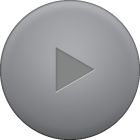
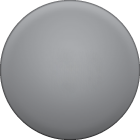
运动界面修改

Changed region(s): [[0.4, 0.3429, 0.6857, 0.6571]]

diff --git a/LikeMoves/LikeMoves/SportViewController.m b/LikeMoves/LikeMoves/SportViewController.m
@@ -46,17 +46,9 @@ static int sportSec;
     
     
     
-    _fireBtn = [[DKCircleButton alloc] initWithFrame:CGRectMake(self.sportCircle.bounds.size.width/2-mFireBtnH/2, self.sportCircle.bounds.size.height/2-mFireBtnH/2, mFireBtnH, mFireBtnH)];
-    [_fireBtn setImage:[UIImage imageNamed:@"test4.png"] forState:UIControlStateNormal];
-        [_fireBtn setImage:[UIImage imageNamed:@"test4.png"] forState:UIControlStateHighlighted];
-        [_fireBtn setImage:[UIImage imageNamed:@"test4.png"] forState:UIControlStateSelected];
-        [_fireBtn setImage:[UIImage imageNamed:@"test4.png"] forState:UIControlStateDisabled];
-    //    _fireBtn.center = CGPointMake(160, 200);
-    _fireBtn.titleLabel.font = [UIFont systemFontOfSize:22];
-    [_fireBtn setTitleColor:[UIColor emerlandColor] forState:UIControlStateNormal];
-    [_fireBtn setTitleColor:[UIColor emerlandColor]  forState:UIControlStateSelected];
-    [_fireBtn setTitleColor:[UIColor emerlandColor] forState:UIControlStateHighlighted];
-    [self setFireBtnTitle:@"0m 0s"];
+    _fireBtn = [[ZenPlayerButton alloc]initWithFrame:CGRectMake(self.sportCircle.bounds.size.width/2-mFireBtnH/2, self.sportCircle.bounds.size.height/2-mFireBtnH/2, mFireBtnH, mFireBtnH)];
+            [_fireBtn addTarget:self action:@selector(sportCircleClear) forControlEvents:UIControlEventTouchUpInside];
+//    [self setFireBtnTitle:@"0m 0s"];
     
     [_wdSport addSubview:_fireBtn];
     [_wdSport addSubview:_coinImg];
@@ -71,7 +63,7 @@ static int sportSec;
     _bagView = [[UIImageView alloc] initWithImage:[UIImage imageNamed:@"icon_hongbao_bags"]];
     _bagView.center = CGPointMake(CGRectGetMidX(self.view.frame) + 5, CGRectGetMidY(self.view.frame)+5 );
     
-    [_fireBtn addTarget:self action:@selector(sportCircleClear) forControlEvents:UIControlEventTouchUpInside];
+
     /**
      *  使用自定义创建控件的方式使控件自适应，autolayout开启，在storyboard中建立的控件，必须已经显示才能在viewDidAppear中进行操作
      */
@@ -138,7 +130,7 @@ static int sportSec;
     sportSec=sportTime;
     int hour=sportTime/60;
     int second=sportTime%60;
-    [self setFireBtnTitle:[NSString stringWithFormat:@"%dm %ds",hour,second]];
+//    [self setFireBtnTitle:[NSString stringWithFormat:@"%dm %ds",hour,second]];
 }
 #pragma mark - custom-method
 -(void) refreshCoinsAndMonthDays{
@@ -153,15 +145,12 @@ static int sportSec;
     User* user=[NSKeyedUnarchiver unarchiveObjectWithData:[[NSUserDefaults standardUserDefaults] objectForKey:mUserInfo]];
     _coinsCount.text=user.coins;
 }
--(void) setFireBtnTitle:(NSString*) title{
-    [_fireBtn setTitle:NSLocalizedString(title, nil) forState:UIControlStateNormal];
-    [_fireBtn setTitle:NSLocalizedString(title, nil) forState:UIControlStateSelected];
-    [_fireBtn setTitle:NSLocalizedString(title, nil) forState:UIControlStateHighlighted];
-}
 /**
  *  当能量条清空时，调用此方法。
  */
 -(void) sportCircleClear{
+    self.fireBtn.progress = 0.4f;
+
     if(sportCircleNumber>5){
         //添加运动记录
         [_bl addMoveRecord:sportSec withSteps:stepNum];
@@ -180,8 +169,8 @@ static int sportSec;
     }else{
         //        [_userBL addCoins:100];
         
-        UIAlertView* alert=[[UIAlertView alloc] initWithTitle:nil message:@"能量条超过一半才能释放" delegate:nil cancelButtonTitle:@"确定" otherButtonTitles: nil];
-        [alert show];
+//        UIAlertView* alert=[[UIAlertView alloc] initWithTitle:nil message:@"能量条超过一半才能释放" delegate:nil cancelButtonTitle:@"确定" otherButtonTitles: nil];
+//        [alert show];
         
         
     }

diff --git a/LikeMoves/LikeMoves/ZenPlayerButton/debug.h b/LikeMoves/LikeMoves/ZenPlayerButton/debug.h
@@ -1,0 +1,35 @@
+//
+//  debug.h
+//  walknote
+//
+//  Created by noradaiko on 7/19/11.
+//  Copyright 2012 noradaiko. All rights reserved.
+//
+
+#import <Foundation/Foundation.h>
+
+#ifndef walknote_debug_h
+#define walknote_debug_h
+
+
+#define  __FILENAME__  [[NSString stringWithCString:__FILE__ encoding:NSStringEncodingConversionAllowLossy] lastPathComponent]
+
+#ifdef DEBUG
+#  define LOG(...) NSLog(@"%@:%d@%@/%@ %@", __FILENAME__, __LINE__, NSStringFromClass([self class]), NSStringFromSelector(_cmd), [NSString stringWithFormat:__VA_ARGS__])
+#  define LOG_ERR(...) NSLog(@"%@:%d@%@/%@ [ERROR] %@", __FILENAME__, __LINE__, NSStringFromClass([self class]), NSStringFromSelector(_cmd), [NSString stringWithFormat:__VA_ARGS__])
+#  define LOG_CURRENT_METHOD NSLog(@"%@:%d@%@/%@", __FILENAME__, __LINE__, NSStringFromClass([self class]), NSStringFromSelector(_cmd))
+#else
+#  define LOG(...) 
+#  define LOG_ERR(...) 
+#  define LOG_CURRENT_METHOD {}
+#endif
+
+
+#endif
+
+
+#define MAMAMA LOG
+
+
+void uncaughtExceptionHandler(NSException *exception);
+

diff --git a/LikeMoves/LikeMoves/ZenPlayerButton/ZenPlayerButton.m b/LikeMoves/LikeMoves/ZenPlayerButton/ZenPlayerButton.m
@@ -48,7 +48,7 @@
 
 @synthesize layerBackground=_layerBackground;
 @synthesize layerContainer=_layerContainer;
-@synthesize state=_state;
+@synthesize stateBtn=_state;
 @synthesize progress=_progress;
 
 - (id)initWithFrame:(CGRect)frame
@@ -138,11 +138,14 @@
             if(pos.x>=0 &&
                pos.y>=0 &&
                pos.x<self.bounds.size.width &&
-               pos.y<self.bounds.size.height)
+               pos.y<self.bounds.size.height){
                 [self tapDone];
+                [self setEnabled:false];
+            }
             else
                 [self tapCancelled];
         }
+    [self performSelector:@selector(touch) withObject:nil afterDelay:1.5];
     [super touchesEnded:touches withEvent:event];
 }
 
@@ -152,7 +155,11 @@
 }
 
 #pragma mark customized tap event
-
+-(void)touch{
+    [self setEnabled:YES];
+    [self tapBegan];
+    [self tapDone];
+}
 /**
  * Invoked when the tap began in the view
  */

diff --git a/LikeMoves/LikeMoves/SportViewController.h b/LikeMoves/LikeMoves/SportViewController.h
@@ -12,7 +12,7 @@
 #import "LMSportBL.h"
 #import "DKCircleButton.h"
 #import "LMUserActBL.h"
-
+#import "ZenPlayerButton.h"
 @interface SportViewController : UIViewController<LMSportBLDelegate>{
     UIButton        *_getBtn;
     UIImageView     *_bagView;      //福袋图层
@@ -40,7 +40,7 @@
 
 
 @property (weak, nonatomic) IBOutlet UILabel *coinsCount;
-@property (nonatomic) DKCircleButton *fireBtn;
+@property (nonatomic) ZenPlayerButton *fireBtn;
 @property (weak, nonatomic) IBOutlet UIImageView *coinImg;
 
 - (IBAction)share:(id)sender;

diff --git a/LikeMoves/LikeMoves/ZenPlayerButton/debug.m b/LikeMoves/LikeMoves/ZenPlayerButton/debug.m
@@ -1,0 +1,16 @@
+//
+//  debug.m
+//  walknote
+//
+//  Created by noradaiko on 2/9/12.
+//  Copyright (c) 2012 noradaiko. All rights reserved.
+//
+
+#include "debug.h"
+
+void uncaughtExceptionHandler(NSException *exception)
+{    
+    NSLog(@"CRASH: %@", exception);
+    NSLog(@"Stack Trace: %@", [exception callStackSymbols]);
+    // Internal error reporting
+}

diff --git a/LikeMoves/LikeMoves/ZenPlayerButton/ZenPlayerButton.h b/LikeMoves/LikeMoves/ZenPlayerButton/ZenPlayerButton.h
@@ -35,7 +35,7 @@ typedef enum {
 /**
  * State of the button
  */
-@property (nonatomic, assign) ZenPlayerButtonState state;
+@property (nonatomic, assign) ZenPlayerButtonState stateBtn;
 /**
  * Progress in range from 0.0f to 1.0f
  */
